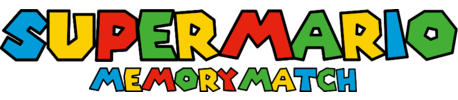
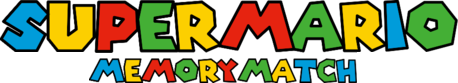
added minimum size to title

diff --git a/assets/css/style.css b/assets/css/style.css
@@ -185,16 +185,21 @@ footer div.block:before {
 
 
 
-.title {
-  position: absolute;
+div.title {
   height: 10vw;
+  min-height: 136px;
   width: 45vw;
-  bottom: -1vh;
-  left: 30vw;
+  min-width: 600px;
+  bottom: 0;
   position: absolute;
+  margin-left: auto;
+  margin-right: auto;
+  left: 0;
+  right: 0;
   background-image: url("../images/supermario.png");
   background-repeat: no-repeat;
   background-size: contain;
+  background-position: bottom;
 }
 
 .container {
